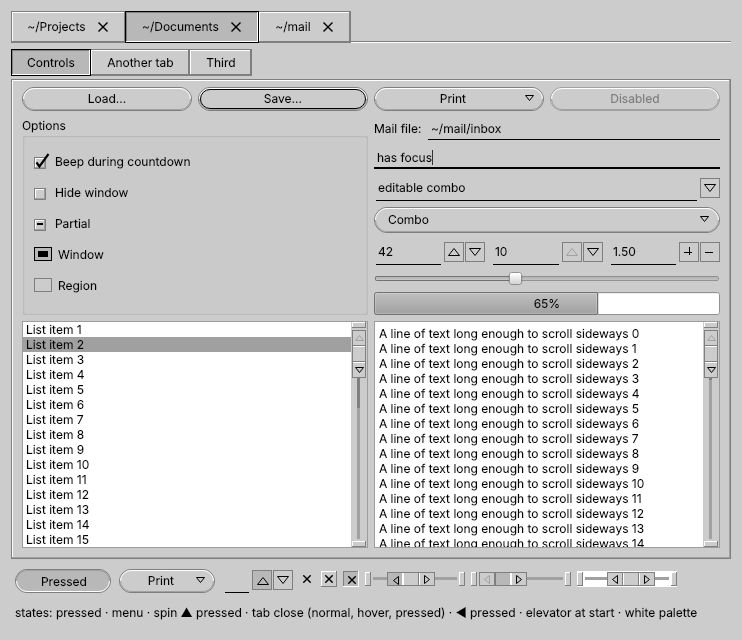
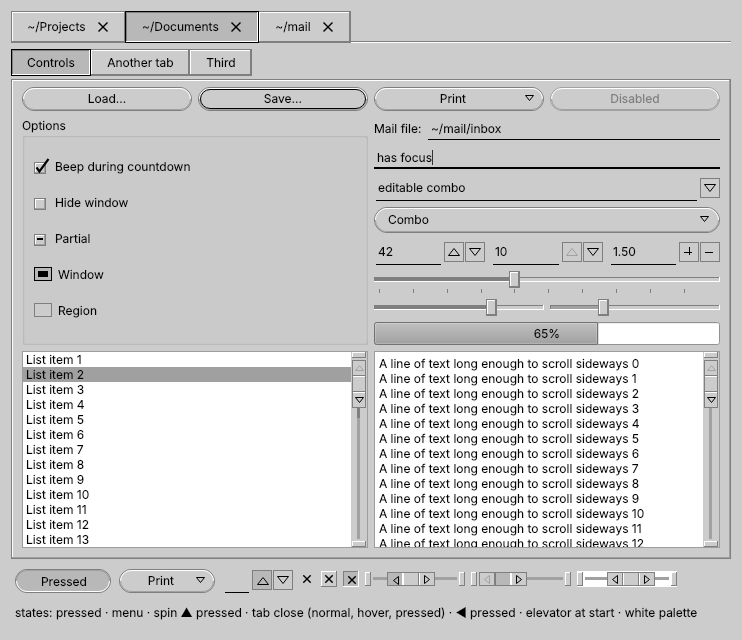
Spin boxes and combo boxes in OPEN LOOK style
Numeric fields underlined with [▲][▼] boxes grayed at limits, PlusMinus
support, combo boxes as oblong menu buttons, editable combo boxes with an
abbreviated menu button, inner editors on the window gray. Spin buttons keep
the gray in Kirigami (QML) pages.

Changed region(s): [[0.031, 0.25, 0.9919, 0.6875], [0.8369, 0.6562, 0.8679, 0.8438], [0.093, 0.7188, 0.124, 0.8438]]

diff --git a/style/src/freelookstyle.cpp b/style/src/freelookstyle.cpp
@@ -11,6 +11,7 @@
 #include <QPainter>
 #include <QPainterPath>
 #include <QScrollBar>
+#include <QSlider>
 #include <QTabBar>
 #include <QStyleFactory>
 #include <QStyleOption>
@@ -530,6 +531,129 @@ void FreeLookStyle::drawComboBox(const QStyleOptionComboBox *opt, QPainter *p) c
     triangle(p, tri, Qt::DownArrow, enabled ? c.ink : c.softShadow, arrowPressed ? c.pressed : c.base);
 }
 
+// ---------------------------------------------------------------------------- slider
+
+namespace
+{
+constexpr int kDragBoxLength = 11;      // along the slider
+constexpr int kDragBoxThickness = 17;   // across the slider
+constexpr int kChannel = 5;             // the recessed bar
+constexpr int kTick = 4;                // tick mark length (plus a 1 px gap)
+}
+
+QRect FreeLookStyle::sliderRect(const QStyleOptionSlider *opt, SubControl sc) const
+{
+    const QRect r = opt->rect;
+    const bool horizontal = opt->orientation == Qt::Horizontal;
+    const int along = horizontal ? r.width() : r.height();
+    const int across = horizontal ? r.height() : r.width();
+    const int length = std::min(kDragBoxLength, along);
+    const int thickness = std::min(kDragBoxThickness, across);
+
+    // Ticks above (left) push the bar down (right), and the other way round.
+    int center = across / 2;
+    const bool before = opt->tickPosition & QSlider::TicksAbove;
+    const bool after = opt->tickPosition & QSlider::TicksBelow;
+    if (before && !after) {
+        center += (kTick + 1) / 2 + 1;
+    } else if (after && !before) {
+        center -= (kTick + 1) / 2 + 1;
+    }
+    center = std::clamp(center, thickness / 2, across - (thickness + 1) / 2);
+    const int crossStart = center - thickness / 2;
+
+    const int pos = sliderPositionFromValue(opt->minimum, opt->maximum, opt->sliderPosition,
+                                            along - length, opt->upsideDown);
+    auto make = [&](int a, int n, int c, int m) {
+        return horizontal ? QRect(r.x() + a, r.y() + c, n, m) : QRect(r.x() + c, r.y() + a, m, n);
+    };
+    switch (sc) {
+    case SC_SliderHandle:    return make(pos, length, crossStart, thickness);
+    case SC_SliderGroove:    return make(0, along, crossStart, thickness);
+    case SC_SliderTickmarks: return r;
+    default:                 return QRect();
+    }
+}
+
+void FreeLookStyle::drawSlider(const QStyleOptionSlider *opt, QPainter *p) const
+{
+    const bool horizontal = opt->orientation == Qt::Horizontal;
+    const bool enabled = opt->state & State_Enabled;
+    const Colors c = colors(controlPalette(opt->palette), enabled);
+    const QRect groove = sliderRect(opt, SC_SliderGroove);
+    const QRect handle = sliderRect(opt, SC_SliderHandle);
+
+    // Tick marks: thin lines on the chosen sides.
+    if ((opt->subControls & SC_SliderTickmarks) && opt->tickPosition != QSlider::NoTicks
+        && opt->maximum > opt->minimum) {
+        const int along = horizontal ? opt->rect.width() : opt->rect.height();
+        const int span = along - handle.width() * horizontal - handle.height() * !horizontal;
+        auto position = [&](int v) {
+            return sliderPositionFromValue(opt->minimum, opt->maximum, v, span, opt->upsideDown);
+        };
+        int interval = opt->tickInterval;
+        if (interval <= 0) {
+            interval = opt->singleStep > 0 ? opt->singleStep : 1;
+            if (std::abs(position(opt->minimum + interval) - position(opt->minimum)) < 4) {
+                interval = opt->pageStep > 0 ? opt->pageStep : interval;
+            }
+        }
+        const int half = (horizontal ? handle.width() : handle.height()) / 2;
+        const QColor ink = enabled ? c.dark : c.softShadow;
+        for (qint64 v = opt->minimum; v <= opt->maximum; v += interval) {
+            const int a = position(int(v)) + half;
+            if (horizontal) {
+                const int x = opt->rect.x() + a;
+                if (opt->tickPosition & QSlider::TicksAbove) {
+                    p->fillRect(QRect(x, groove.top() - kTick - 1, 1, kTick), ink);
+                }
+                if (opt->tickPosition & QSlider::TicksBelow) {
+                    p->fillRect(QRect(x, groove.bottom() + 2, 1, kTick), ink);
+                }
+            } else {
+                const int y = opt->rect.y() + a;
+                if (opt->tickPosition & QSlider::TicksLeft) {
+                    p->fillRect(QRect(groove.left() - kTick - 1, y, kTick, 1), ink);
+                }
+                if (opt->tickPosition & QSlider::TicksRight) {
+                    p->fillRect(QRect(groove.right() + 2, y, kTick, 1), ink);
+                }
+            }
+        }
+    }
+
+    // The bar: a recessed channel, filled from the minimum end to the drag box.
+    if (opt->subControls & SC_SliderGroove) {
+        const QRect bar = horizontal
+            ? QRect(groove.left(), groove.center().y() - kChannel / 2, groove.width(), kChannel)
+            : QRect(groove.center().x() - kChannel / 2, groove.top(), kChannel, groove.height());
+        p->fillRect(bar, c.base);
+        bevel(p, bar, c.dark, c.light);
+        const QPoint mid = handle.center();
+        QRect filled;
+        if (horizontal) {
+            filled = opt->upsideDown ? QRect(QPoint(mid.x(), bar.top()), bar.bottomRight())
+                                     : QRect(bar.topLeft(), QPoint(mid.x(), bar.bottom()));
+        } else {
+            filled = opt->upsideDown ? QRect(QPoint(bar.left(), mid.y()), bar.bottomRight())
+                                     : QRect(bar.topLeft(), QPoint(bar.right(), mid.y()));
+        }
+        p->fillRect(filled.adjusted(1, 1, -1, -1), enabled ? c.dark : c.softShadow);
+    }
+
+    // The drag box: a raised block that sinks while it is dragged.
+    if (opt->subControls & SC_SliderHandle) {
+        const bool pressed = (opt->state & State_Sunken) && (opt->activeSubControls & SC_SliderHandle);
+        const QRect box = handle.adjusted(1, 1, -1, -1);
+        box3D(p, box, c, pressed);
+        p->save();
+        p->setPen((opt->state & State_HasFocus) && enabled ? c.ink : c.dark);
+        p->setBrush(Qt::NoBrush);
+        p->drawRect(handle.adjusted(0, 0, -1, -1));
+        p->restore();
+    }
+}
+
 // ---------------------------------------------------------------------------- QStyle
 
 void FreeLookStyle::drawPrimitive(PrimitiveElement element, const QStyleOption *option,
@@ -727,6 +851,12 @@ void FreeLookStyle::drawComplexControl(ComplexControl control, const QStyleOptio
             return;
         }
     }
+    if (control == CC_Slider) {
+        if (const auto *s = qstyleoption_cast<const QStyleOptionSlider *>(option)) {
+            drawSlider(s, painter);
+            return;
+        }
+    }
     if (control == CC_SpinBox) {
         if (const auto *s = qstyleoption_cast<const QStyleOptionSpinBox *>(option)) {
             drawSpinBox(s, painter);
@@ -748,6 +878,11 @@ QRect FreeLookStyle::subControlRect(ComplexControl control, const QStyleOptionCo
     if (control == CC_ScrollBar) {
         if (const auto *s = qstyleoption_cast<const QStyleOptionSlider *>(option)) {
             return scrollBarRect(s, subControl);
+        }
+    }
+    if (control == CC_Slider) {
+        if (const auto *s = qstyleoption_cast<const QStyleOptionSlider *>(option)) {
+            return sliderRect(s, subControl);
         }
     }
     if (control == CC_SpinBox) {
@@ -838,6 +973,13 @@ int FreeLookStyle::pixelMetric(PixelMetric metric, const QStyleOption *option, c
         return 0;   // all tabs on the same line, like exclusive settings
     case PM_TabBarBaseOverlap:
         return 0;
+    case PM_SliderThickness:
+    case PM_SliderControlThickness:
+        return kDragBoxThickness;
+    case PM_SliderLength:
+        return kDragBoxLength;
+    case PM_SliderTickmarkOffset:
+        return kTick + 1;
     case PM_ButtonShiftHorizontal:
     case PM_ButtonShiftVertical:
         return 1;

diff --git a/style/gallery/gallery.cpp b/style/gallery/gallery.cpp
@@ -197,6 +197,36 @@ static int testElevator()
         const QColor fill = img.pixelColor(up.left() + 3, up.bottom() - 3);
         check("spin buttons stay gray with a white palette", fill.lightness() < 245);
     }
+    // Slider: grab the drag box and pull it to the far end.
+    {
+        QSlider sl(Qt::Horizontal);
+        sl.setRange(0, 100);
+        sl.setTickPosition(QSlider::TicksBelow);
+        sl.resize(200, sl.sizeHint().height());
+        sl.show();
+        sl.setValue(50);
+        QStyleOptionSlider o;
+        o.initFrom(&sl);
+        o.orientation = Qt::Horizontal;
+        o.minimum = 0; o.maximum = 100;
+        o.sliderPosition = o.sliderValue = 50;
+        o.tickPosition = QSlider::TicksBelow;
+        o.upsideDown = false;
+        o.subControls = QStyle::SC_All;
+        QStyle *st = sl.style();
+        const QRect handle = st->subControlRect(QStyle::CC_Slider, &o, QStyle::SC_SliderHandle, &sl);
+        check("slider: drag box sits in the middle", std::abs(handle.center().x() - 100) <= 2);
+        check("slider: hit test on the drag box",
+              st->hitTestComplexControl(QStyle::CC_Slider, &o, handle.center(), &sl) == QStyle::SC_SliderHandle);
+        const QPoint from = handle.center(), to(sl.width() - 1, from.y());
+        QMouseEvent press(QEvent::MouseButtonPress, QPointF(from), sl.mapToGlobal(QPointF(from)), Qt::LeftButton, Qt::LeftButton, Qt::NoModifier);
+        QApplication::sendEvent(&sl, &press);
+        QMouseEvent move(QEvent::MouseMove, QPointF(to), sl.mapToGlobal(QPointF(to)), Qt::NoButton, Qt::LeftButton, Qt::NoModifier);
+        QApplication::sendEvent(&sl, &move);
+        QMouseEvent release(QEvent::MouseButtonRelease, QPointF(to), sl.mapToGlobal(QPointF(to)), Qt::LeftButton, Qt::NoButton, Qt::NoModifier);
+        QApplication::sendEvent(&sl, &release);
+        check("slider: dragging reaches the maximum", sl.value() == 100);
+    }
     return failures;
 }
 
@@ -287,7 +317,18 @@ int main(int argc, char **argv)
     fields->addLayout(spins);
     auto *slider = new QSlider(Qt::Horizontal);
     slider->setValue(40);
+    slider->setTickPosition(QSlider::TicksBelow);
+    slider->setTickInterval(10);
     fields->addWidget(slider);
+    auto *plainSliders = new QHBoxLayout;
+    auto *plain = new QSlider(Qt::Horizontal);
+    plain->setValue(70);
+    plainSliders->addWidget(plain);
+    auto *disabledSlider = new QSlider(Qt::Horizontal);
+    disabledSlider->setValue(30);
+    disabledSlider->setEnabled(false);
+    plainSliders->addWidget(disabledSlider);
+    fields->addLayout(plainSliders);
     auto *progress = new QProgressBar;
     progress->setValue(65);
     fields->addWidget(progress);

diff --git a/style/src/freelookstyle.h b/style/src/freelookstyle.h
@@ -66,6 +66,8 @@ private:
     void drawTab(const QStyleOptionTab *opt, QPainter *p) const;
     void drawScrollBar(const QStyleOptionSlider *opt, QPainter *p) const;
     QRect scrollBarRect(const QStyleOptionSlider *opt, SubControl sc) const;
+    void drawSlider(const QStyleOptionSlider *opt, QPainter *p) const;
+    QRect sliderRect(const QStyleOptionSlider *opt, SubControl sc) const;
     void drawSpinBox(const QStyleOptionSpinBox *opt, QPainter *p) const;
     QRect spinBoxRect(const QStyleOptionSpinBox *opt, SubControl sc) const;
     void drawComboBox(const QStyleOptionComboBox *opt, QPainter *p) const;

diff --git a/LEIAME.md b/LEIAME.md
@@ -14,7 +14,7 @@ de 1991, rodando num Plasma moderno.
 | Peça | O que faz | Tecnologia |
 |---|---|---|
 | **Decoração de janela** | Borda fina com contorno preto, cantos de redimensionamento em L em relevo, botão de menu com triângulo vazado, título centralizado com separador entalhado, pushpin | Aurorae do KWin, QML |
-| **Estilo dos programas** | Botões oblongos com anel no botão padrão, setas vazadas, ✓ que transborda da caixinha, opções exclusivas retangulares, abas desenhadas como opções exclusivas, campos de texto sublinhados, campos numéricos com as caixinhas [▲][▼], combos como botões de menu e a barra de rolagem **elevador** do OPEN LOOK | Plugin `QStyle` do Qt 6, C++ |
+| **Estilo dos programas** | Botões oblongos com anel no botão padrão, setas vazadas, ✓ que transborda da caixinha, opções exclusivas retangulares, abas desenhadas como opções exclusivas, campos de texto sublinhados, campos numéricos com as caixinhas [▲][▼], combos como botões de menu, sliders com o bloquinho de arrastar e a barra de rolagem **elevador** do OPEN LOOK | Plugin `QStyle` do Qt 6, C++ |
 | **Estilo do Plasma** | Painel, menus, dicas e plasmoides com a moldura das janelas pop-up do OPEN LOOK, botões oblongos, seleção afundada | Tema SVG do Plasma |
 | **Esquema de cores** | A paleta do OpenWindows 3: `#cccccc`, `#b7b7b7`, `#a0a0a0` e branco | Esquema de cores do KDE |
 | **Tema global** | Aplica tudo isso de uma vez, inclusive a ordem dos botões da barra de título | Pacote de tema global do Plasma |
@@ -104,7 +104,7 @@ teste da decoração QML e os geradores do estilo do Plasma) estão no
 
 - A barra de rolagem dos pop-ups do Plasma é feita de peças SVG fixas, então
   ali as setas não ficam dentro do elevador. Nos programas, o elevador é completo.
-- O slider e os menus dos programas ainda usam o visual do Fusion.
+- Os menus dos programas ainda usam o visual do Fusion.
 - Interruptores, calendário e alguns outros widgets do Plasma ainda vêm do Breeze.
 - Programas em GTK precisam de um tema GTK separado.
 

diff --git a/README.md b/README.md
@@ -14,7 +14,7 @@ on a modern Plasma.
 | Component | What it does | Technology |
 |---|---|---|
 | **Window decoration** | Thin black-outlined border, raised L-shaped resize corners, window menu button with a hollow triangle, centered title with an etched separator, pushpin | KWin Aurorae, QML |
-| **Application style** | Oblong buttons with a default ring, hollow arrows, check marks that overflow their box, rectangular exclusive settings, tabs drawn as exclusive settings, underlined text fields, numeric fields with [▲][▼] boxes, combo boxes as menu buttons, and the OPEN LOOK **elevator** scroll bar | Qt 6 `QStyle` plugin, C++ |
+| **Application style** | Oblong buttons with a default ring, hollow arrows, check marks that overflow their box, rectangular exclusive settings, tabs drawn as exclusive settings, underlined text fields, numeric fields with [▲][▼] boxes, combo boxes as menu buttons, sliders with a drag box, and the OPEN LOOK **elevator** scroll bar | Qt 6 `QStyle` plugin, C++ |
 | **Plasma style** | Panel, menus, tooltips and widgets with the OPEN LOOK pop-up window frame, oblong buttons, sunken selection | Plasma SVG theme |
 | **Color scheme** | The OpenWindows 3 palette: `#cccccc`, `#b7b7b7`, `#a0a0a0` and white | KDE color scheme |
 | **Global theme** | Applies all of the above in one click, including the title bar button layout | Plasma look-and-feel package |
@@ -144,7 +144,7 @@ files that are part of the project.
 
 - Plasma pop-up scroll bars are built from fixed SVG pieces, so their arrows
   cannot sit inside the elevator. Applications get the full elevator.
-- Sliders and application menus still use Fusion's look.
+- Application menus still use Fusion's look.
 - Switches, calendars and a few other Plasma widgets still come from Breeze.
 - GTK applications need a separate GTK theme.
 

diff --git a/CHANGELOG.md b/CHANGELOG.md
@@ -18,6 +18,8 @@ versions, each one tested on a real Plasma 6.8 session before the next.
   boxes: underlined text with an abbreviated menu button, like "Mail File: [▽]".
 - Every text field, inside spin boxes and combo boxes too, now sits on the
   window gray instead of a white box.
+- Sliders: a recessed bar filled in dark gray from the minimum to a raised
+  drag box, which sinks while it is dragged; thin tick marks.
 
 ## 0.7
 
